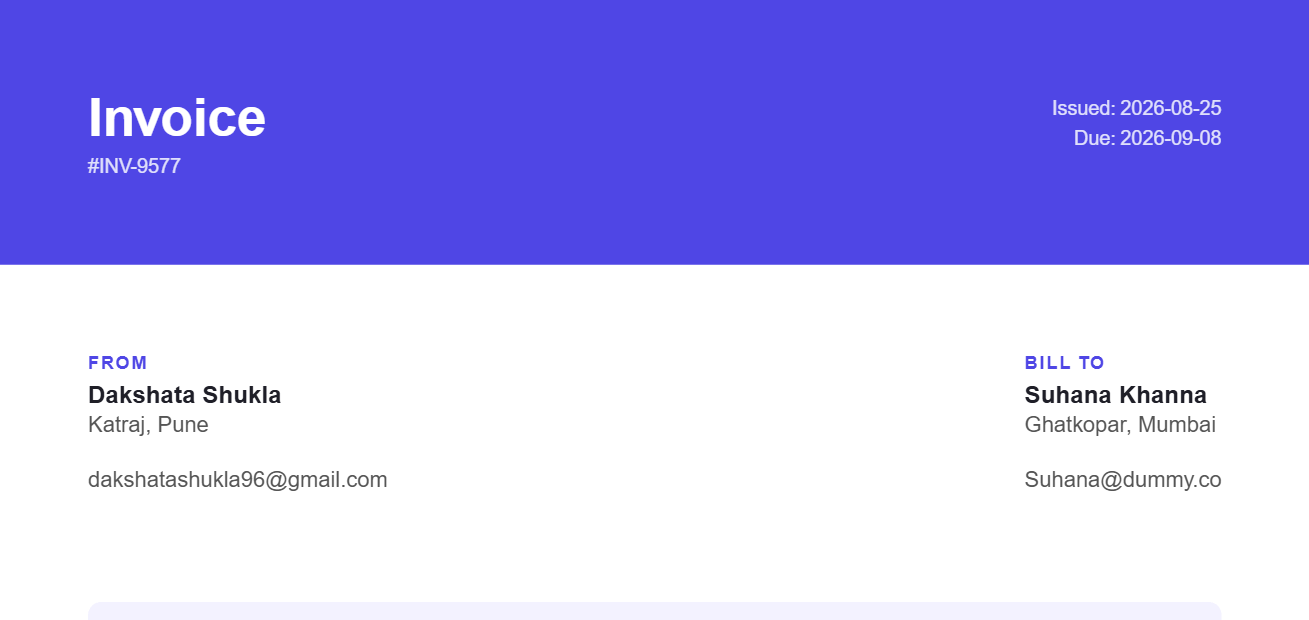
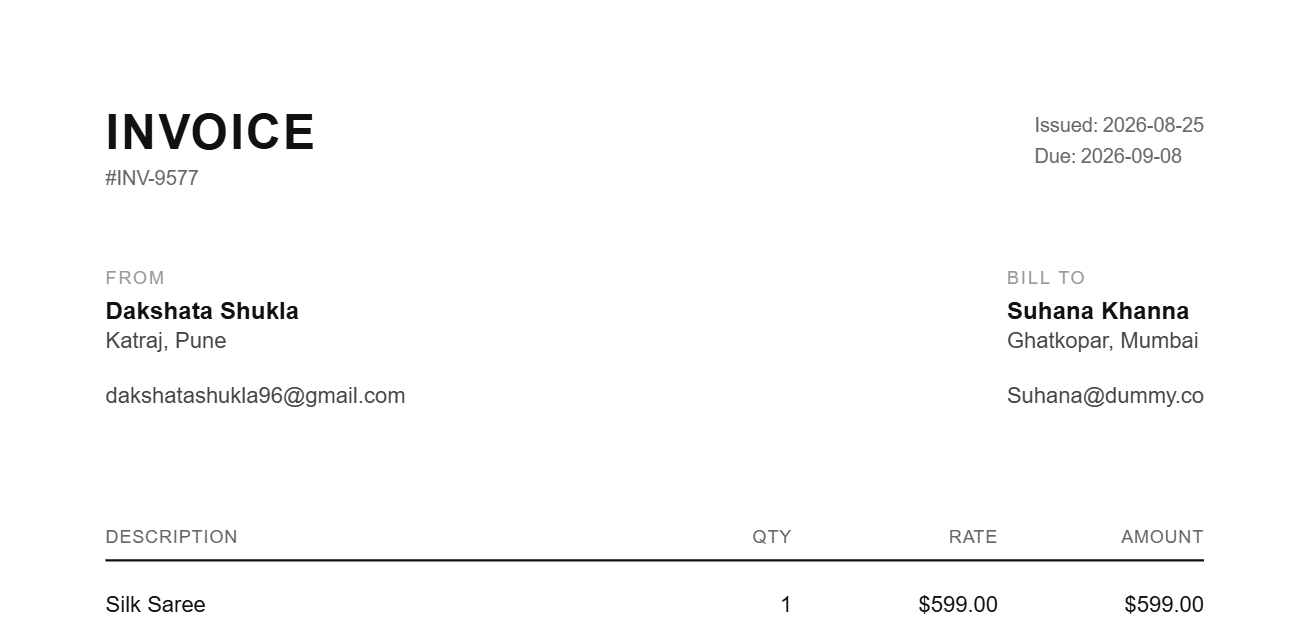
fix: swapped template thumbnails and clipped live preview
- minimal.png/modern.png had their rendered content swapped at
  generation time, so each card showed the other template's design.
- The live preview iframe (react-pdf's PDFViewer) never told the
  browser's PDF viewer to fit the page to its container, so it
  rendered zoomed in with most of the invoice cut off below a black
  void. Replaced it with a custom iframe that generates the blob
  itself and sets an explicit view=FitH open parameter.

diff --git a/components/invoice/InvoicePreview.tsx b/components/invoice/InvoicePreview.tsx
@@ -1,0 +1,59 @@
+import React, { useEffect, useRef, useState } from 'react';
+import { pdf } from '@react-pdf/renderer';
+import { InvoiceData } from '../../types';
+
+interface InvoicePreviewProps {
+  document: React.ReactElement;
+  data: InvoiceData;
+  template: string;
+}
+
+// react-pdf's own <PDFViewer> only sets `#toolbar=`, leaving zoom up to the browser's
+// native PDF plugin — which doesn't reliably fit the page to a narrow embedded iframe and
+// ends up rendering zoomed in with most of the invoice cut off. Generating the blob
+// ourselves lets us pass an explicit `view=FitH` (a standard PDF open parameter) so the
+// page is always scaled to the container's width.
+const InvoicePreview: React.FC<InvoicePreviewProps> = ({ document, data, template }) => {
+  const [url, setUrl] = useState<string | null>(null);
+  const urlRef = useRef<string | null>(null);
+
+  useEffect(() => {
+    let cancelled = false;
+
+    pdf(document)
+      .toBlob()
+      .then((blob) => {
+        if (cancelled) return;
+        const nextUrl = URL.createObjectURL(blob);
+        if (urlRef.current) URL.revokeObjectURL(urlRef.current);
+        urlRef.current = nextUrl;
+        setUrl(nextUrl);
+      });
+
+    return () => {
+      cancelled = true;
+    };
+    // eslint-disable-next-line react-hooks/exhaustive-deps
+  }, [JSON.stringify(data), template]);
+
+  useEffect(() => {
+    return () => {
+      if (urlRef.current) URL.revokeObjectURL(urlRef.current);
+    };
+  }, []);
+
+  if (!url) {
+    return <div className="w-full h-full flex items-center justify-center text-sm text-textSecondary">Preparing preview…</div>;
+  }
+
+  return (
+    <iframe
+      key={url}
+      src={`${url}#toolbar=1&view=FitH`}
+      title="Invoice preview"
+      className="w-full h-full border-0"
+    />
+  );
+};
+
+export default InvoicePreview;

diff --git a/components/invoice/InvoiceGenerator.tsx b/components/invoice/InvoiceGenerator.tsx
@@ -1,8 +1,9 @@
 import React, { useMemo, useState } from 'react';
-import { PDFDownloadLink, PDFViewer } from '@react-pdf/renderer';
+import { PDFDownloadLink } from '@react-pdf/renderer';
 import { InvoiceData, InvoiceTemplateId } from '../../types';
 import { calculateTotals, createEmptyInvoice, emptyLineItem, formatCurrency } from './invoiceUtils';
 import { INVOICE_TEMPLATES, TEMPLATE_OPTIONS } from './templates';
+import InvoicePreview from './InvoicePreview';
 
 const CURRENCIES = ['USD', 'EUR', 'GBP', 'INR'];
 
@@ -234,10 +235,8 @@ const InvoiceGenerator: React.FC = () => {
           </div>
 
           {showPreview && (
-            <div className="hidden md:block rounded-2xl overflow-hidden border border-accent shadow-sm h-[500px]">
-              <PDFViewer width="100%" height="100%" showToolbar={false}>
-                <TemplateComponent data={data} />
-              </PDFViewer>
+            <div className="hidden md:block rounded-2xl overflow-hidden border border-accent shadow-sm h-[570px]">
+              <InvoicePreview document={<TemplateComponent data={data} />} data={data} template={template} />
             </div>
           )}
         </div>
